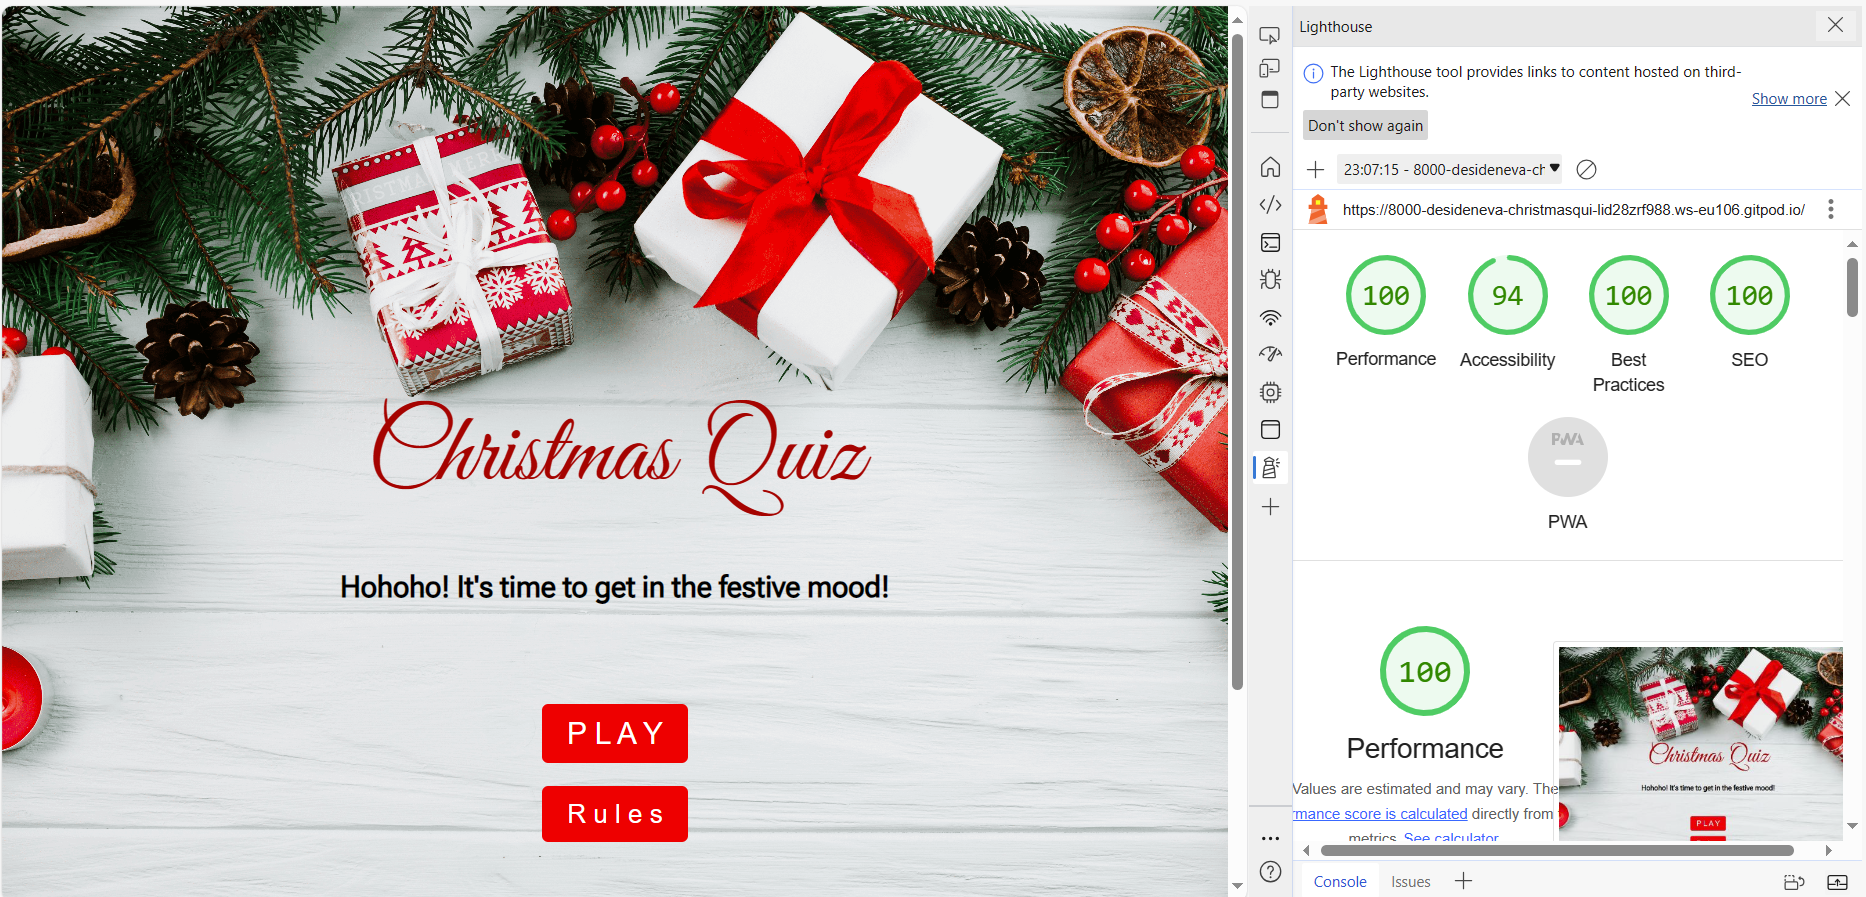
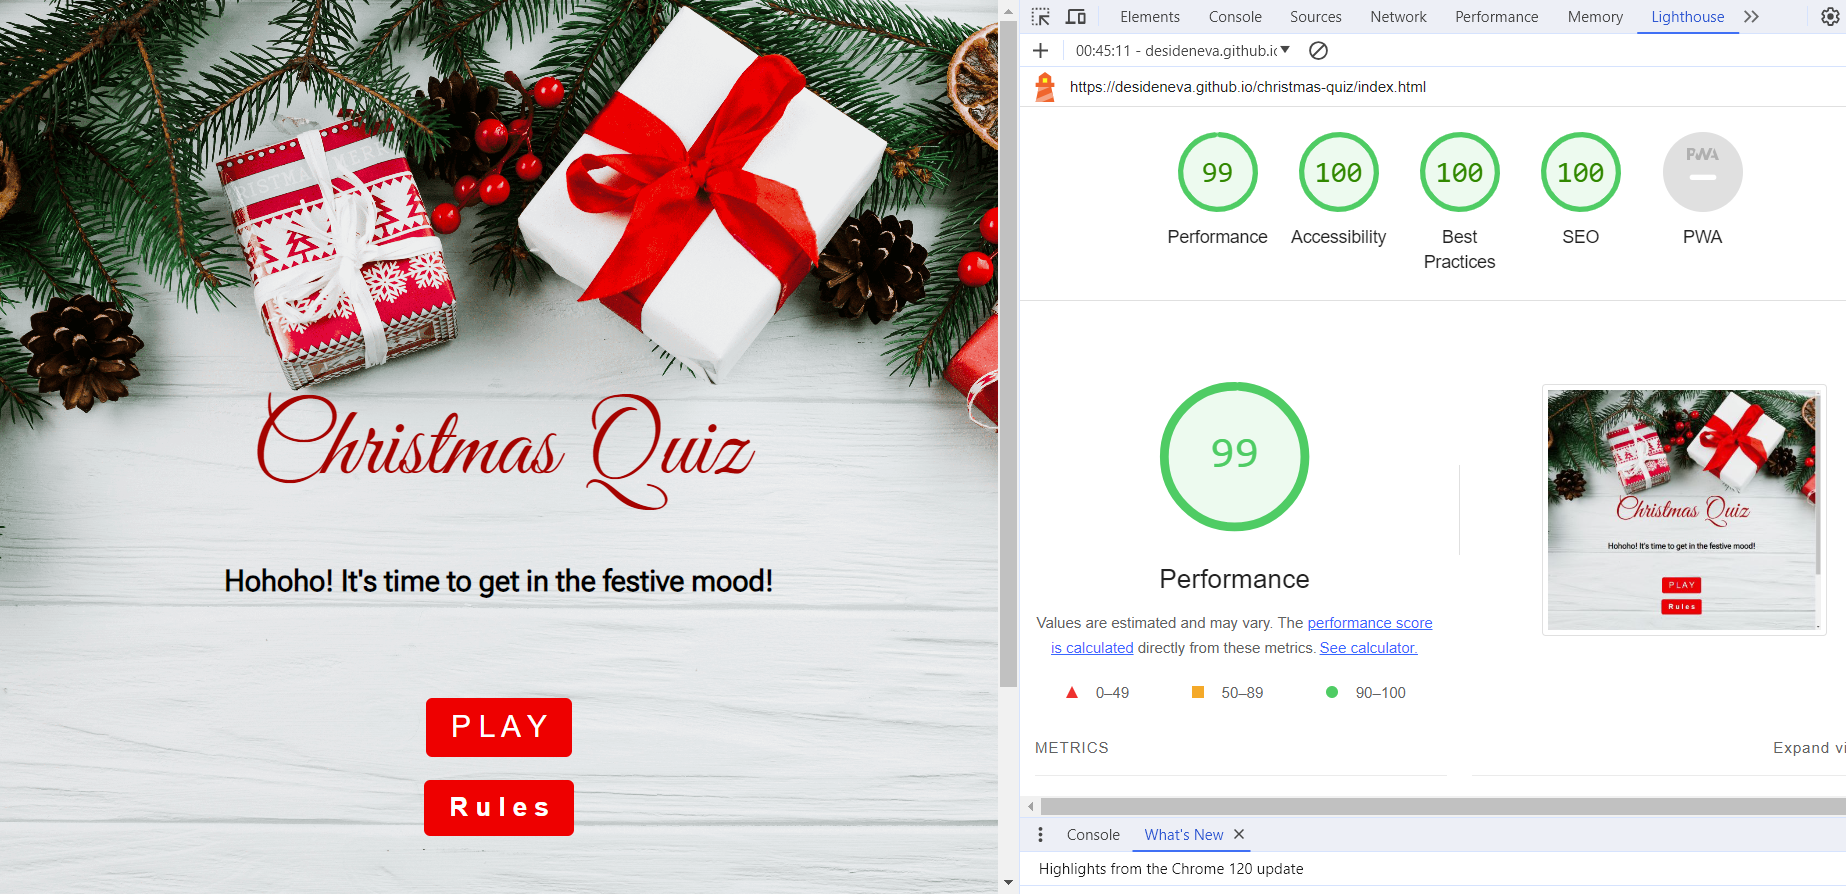
Add modified images and update home page and README

diff --git a/assets/css/style.css b/assets/css/style.css
@@ -4,7 +4,7 @@
 
  /* Styling the front page */
  body {
-     background-image: url(../images/christmas-twig-with-candle-present-boxes.png);
+     background-image: url(../assets/docs/front-page-desktop.PNG);
      margin: 0;
      padding: 100px 0;
      height: 100vh;
